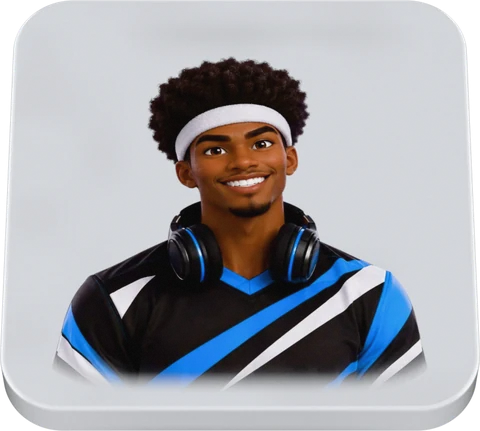
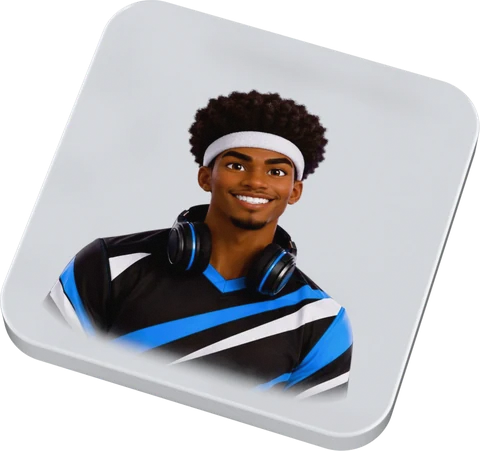
Floating tiles each at their own angle and tilt; the wave also flips the barely visible edge tiles

diff --git a/src/components/website/FloatingBadges.tsx b/src/components/website/FloatingBadges.tsx
@@ -1,7 +1,7 @@
 "use client";
 
 // Floating tiles around the scroll line (ScrubLine.tsx): the floor's own glass tiles with their
-// characters, pre-rendered square on and upright. Each sits at its own depth and drifts with the cursor by
+// characters, pre-rendered each at its own angle (tools/tiles/tile-boot.js) and tilted a little more. Each sits at its own depth and drifts with the cursor by
 // that much (a soft spring, nearer ones further), so they parallax against each other, and bobs slowly
 // on its own. Hovering one sweeps a dense dot-matrix band across it that turns the human into their AI
 // copy behind it; leaving eases back. The cast avoids the four characters the players section uses.
@@ -86,7 +86,6 @@ const BADGES: Badge[] = [
 const DRIFT = 22; // px a depth-1 badge moves with the cursor at the edge of the screen
 const SWEEP_S = 1;
 const BAND = 34; // band width, % of the tile
-const TILE_ASPECT = 808 / 725; // the rendered tiles' width / height
 
 export function FloatingBadges() {
   // pointer position, -1..1 across the viewport, smoothed
@@ -163,7 +162,7 @@ function FloatingBadge({
           whileHover={{ scale: 1.05 }}
           transition={{ type: "spring", stiffness: 300, damping: 22 }}
           className="pointer-events-auto relative drop-shadow-[0_18px_22px_rgba(10,27,51,0.18)]"
-          style={{ width: b.size, aspectRatio: TILE_ASPECT }}
+          style={{ width: b.size, rotate: b.tilt }}
         >
           <Tile src={`/tiles/float/${b.name}.webp`} />
           <motion.div
@@ -195,14 +194,10 @@ function FloatingBadge({
   );
 }
 
-// One floating tile: the floor's glass tile with its character, pre-rendered square on (tools/tiles/tile-boot.js).
+// One floating tile: the floor's glass tile with its character, pre-rendered (tools/tiles/tile-boot.js).
 function Tile({ src }: { src: string }) {
   return (
     // eslint-disable-next-line @next/next/no-img-element -- pre-rendered tile art
-    <img
-      src={src}
-      alt=""
-      className="absolute inset-0 h-full w-full select-none"
-    />
+    <img src={src} alt="" className="block h-auto w-full select-none" />
   );
 }

diff --git a/tools/tiles/tile-boot.js b/tools/tiles/tile-boot.js
@@ -3,7 +3,8 @@
 // floor's camera angle. PARAMS: name (character file), ai (true: the AI copy), transparent (no floor or
 // background), elev (camera height in degrees), mask (the tile's outline only, white on black: the
 // cut-out mask for the grey-backed render, so the glass keeps the floor's look once cut out), straight
-// (square on to the camera, the bust upright along the tile's axis, a gentler angle; default true).
+// (square on to the camera, the bust upright along the tile's axis, a gentler angle; default true),
+// az (with straight: the camera's turn around the tile in degrees, so each tile can sit at its own angle).
 import * as THREE from 'three';
 import { studioEnvironment, glassMaterials } from '/src/tiles/materials.js';
 import { buildComposer } from '/src/tiles/post.js';
@@ -11,7 +12,7 @@ import { addCharacters, loadPictures } from '/src/tiles/characters.js';
 import { tileGeometry } from '/src/tiles/geometry.js';
 
 const RAW = await fetch('/tiles/floor-params.json').then((r) => r.json());
-const opt = Object.assign({ name: '03-braids.webp', ai: false, transparent: true, elev: null, mask: false, straight: true }, window.PARAMS);
+const opt = Object.assign({ name: '03-braids.webp', ai: false, transparent: true, elev: null, mask: false, straight: true, az: 0 }, window.PARAMS);
 const P = Object.assign({ W: 1920, H: 1080, assetBase: '/tiles' }, RAW, RAW.states?.default ?? {}, { chars: [opt.name], charActive: null }, opt.transparent ? { filmGrain: 0 } : {});
 
 const renderer = new THREE.WebGLRenderer({ antialias: true, preserveDrawingBuffer: true, alpha: opt.transparent });
@@ -53,7 +54,7 @@ if (opt.mask) {
   scene.background = new THREE.Color('#000000');
 }
 
-const az = opt.straight ? 0 : THREE.MathUtils.degToRad(P.azim);
+const az = THREE.MathUtils.degToRad(opt.straight ? opt.az : P.azim);
 const el = THREE.MathUtils.degToRad(opt.elev ?? (opt.straight ? 62 : P.elev));
 const d = (P.tile * 1.55) / Math.tan(THREE.MathUtils.degToRad(P.fov / 2)) / 2;
 const camera = new THREE.PerspectiveCamera(P.fov, w / h, 0.1, 400);

diff --git a/src/tiles/autoplay.js b/src/tiles/autoplay.js
@@ -8,7 +8,7 @@
 // at once over every character tile on screen, activated or not, and restarts the cycle from the middle.
 import { shownShare } from './viewport.js';
 
-const RESUME_MS = 3000, FOCUS_MS = 380, GAP_MS = 220, MIN_SHOWN = 0.4;
+const RESUME_MS = 3000, FOCUS_MS = 380, GAP_MS = 220, MIN_SHOWN = 0.4, WAVE_SHOWN = 0.02;
 const WAVE_SPREAD = 1.3, FLIP_SECONDS = 0.75; // stagger across the screen, one tile's flip
 const ease = (t) => (t < 0.5 ? 4 * t * t * t : 1 - Math.pow(-2 * t + 2, 3) / 2);
 
@@ -20,8 +20,10 @@ export function startAutoplay({ ctl, camera, chars, flipTile, composer, refiner,
 
   // The character tiles that count as on screen: at least MIN_SHOWN of the tile's top face inside the view
   // (its projected outline clipped to the screen, by area). x, y: the centre, in normalised device coords.
-  const onScreen = () => [...chars.entries()].map(([key, ch]) => ({ key, ...shownShare(camera, ...ch.at, half) }))
-    .filter((t) => t.shown >= MIN_SHOWN);
+  // The wave also takes the barely visible tiles at the edges (WAVE_SHOWN), activated or not, so nothing
+  // in view changes without flipping.
+  const onScreen = (min = MIN_SHOWN) => [...chars.entries()].map(([key, ch]) => ({ key, ...shownShare(camera, ...ch.at, half) }))
+    .filter((t) => t.shown >= min);
 
   ctl.onUser = (active) => {
     clearTimeout(resumeTimer);
@@ -30,7 +32,7 @@ export function startAutoplay({ ctl, camera, chars, flipTile, composer, refiner,
   };
 
   async function wave(all = false) {
-    const tiles = onScreen().filter((t) => all || ctl.spent.has(t.key));
+    const tiles = onScreen(WAVE_SHOWN).filter((t) => all || ctl.spent.has(t.key) || t.shown < MIN_SHOWN);
     for (const key of ctl.spent) if (!tiles.some((t) => t.key === key)) ctl.unspend(key); // off screen: reset quietly
     if (!tiles.length) return;
     ctl.inert = true;
